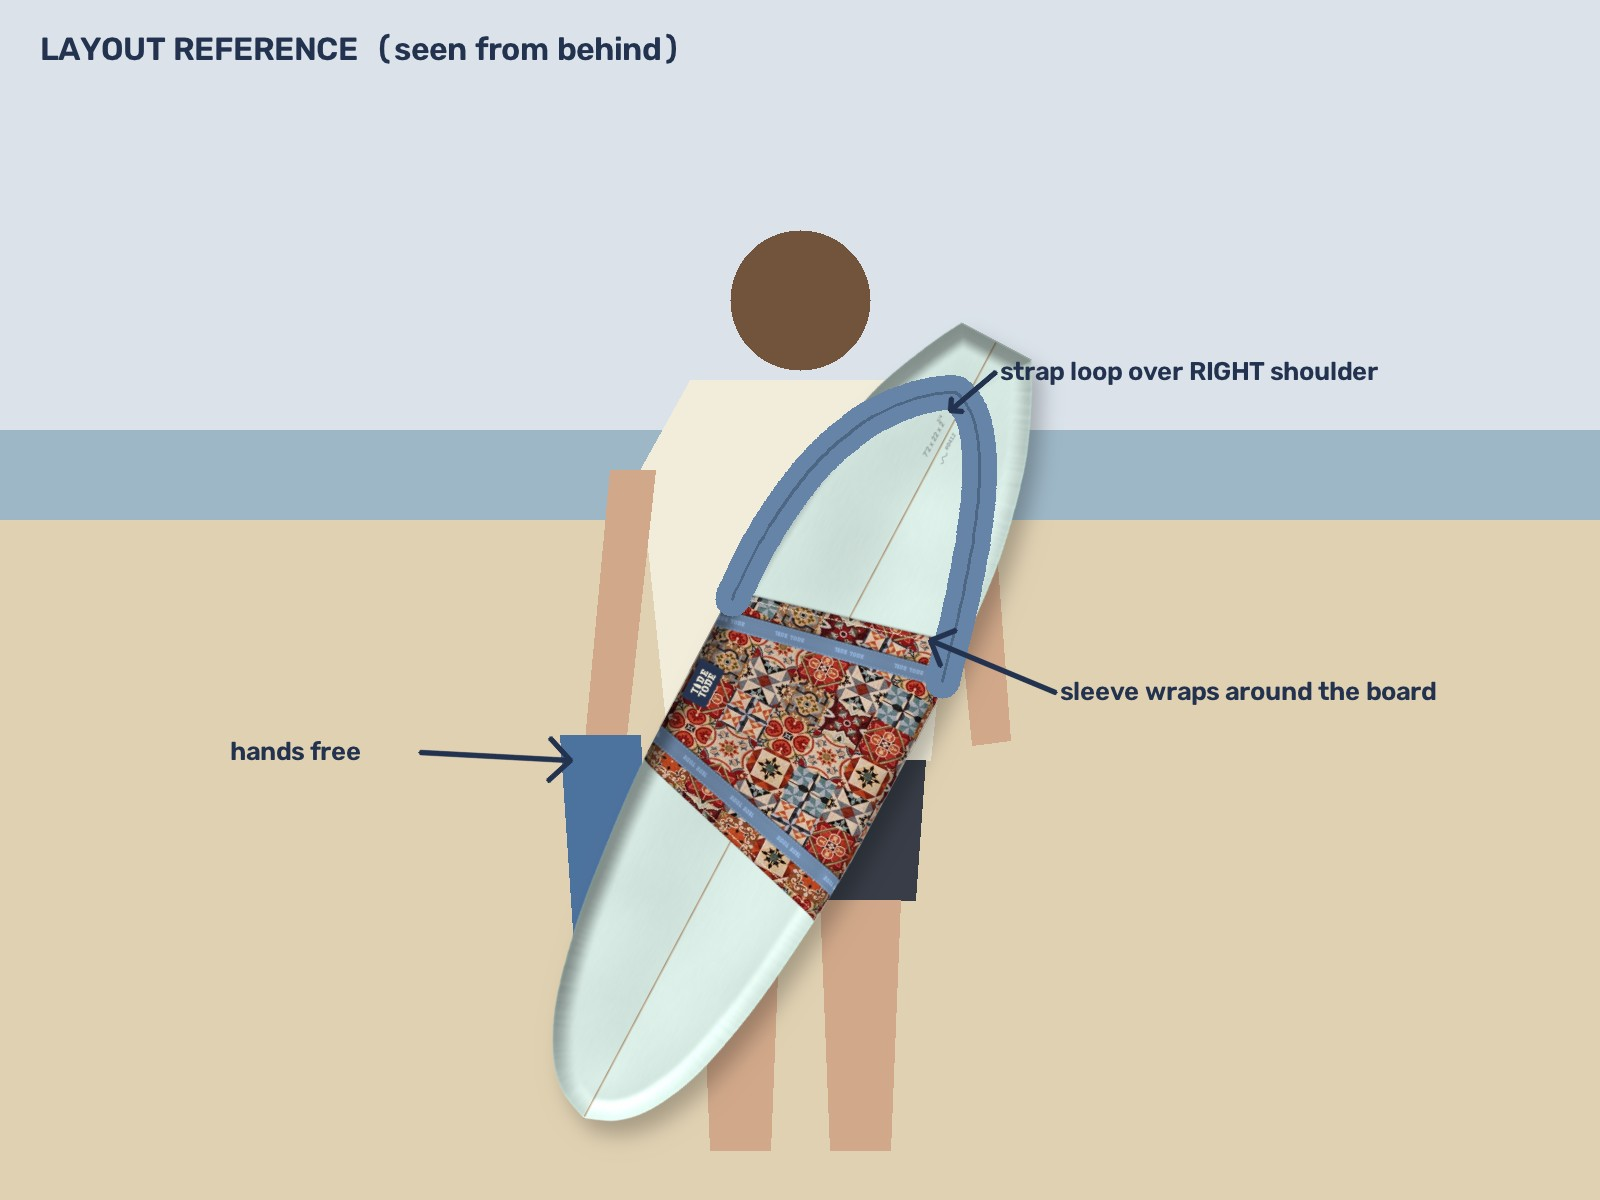
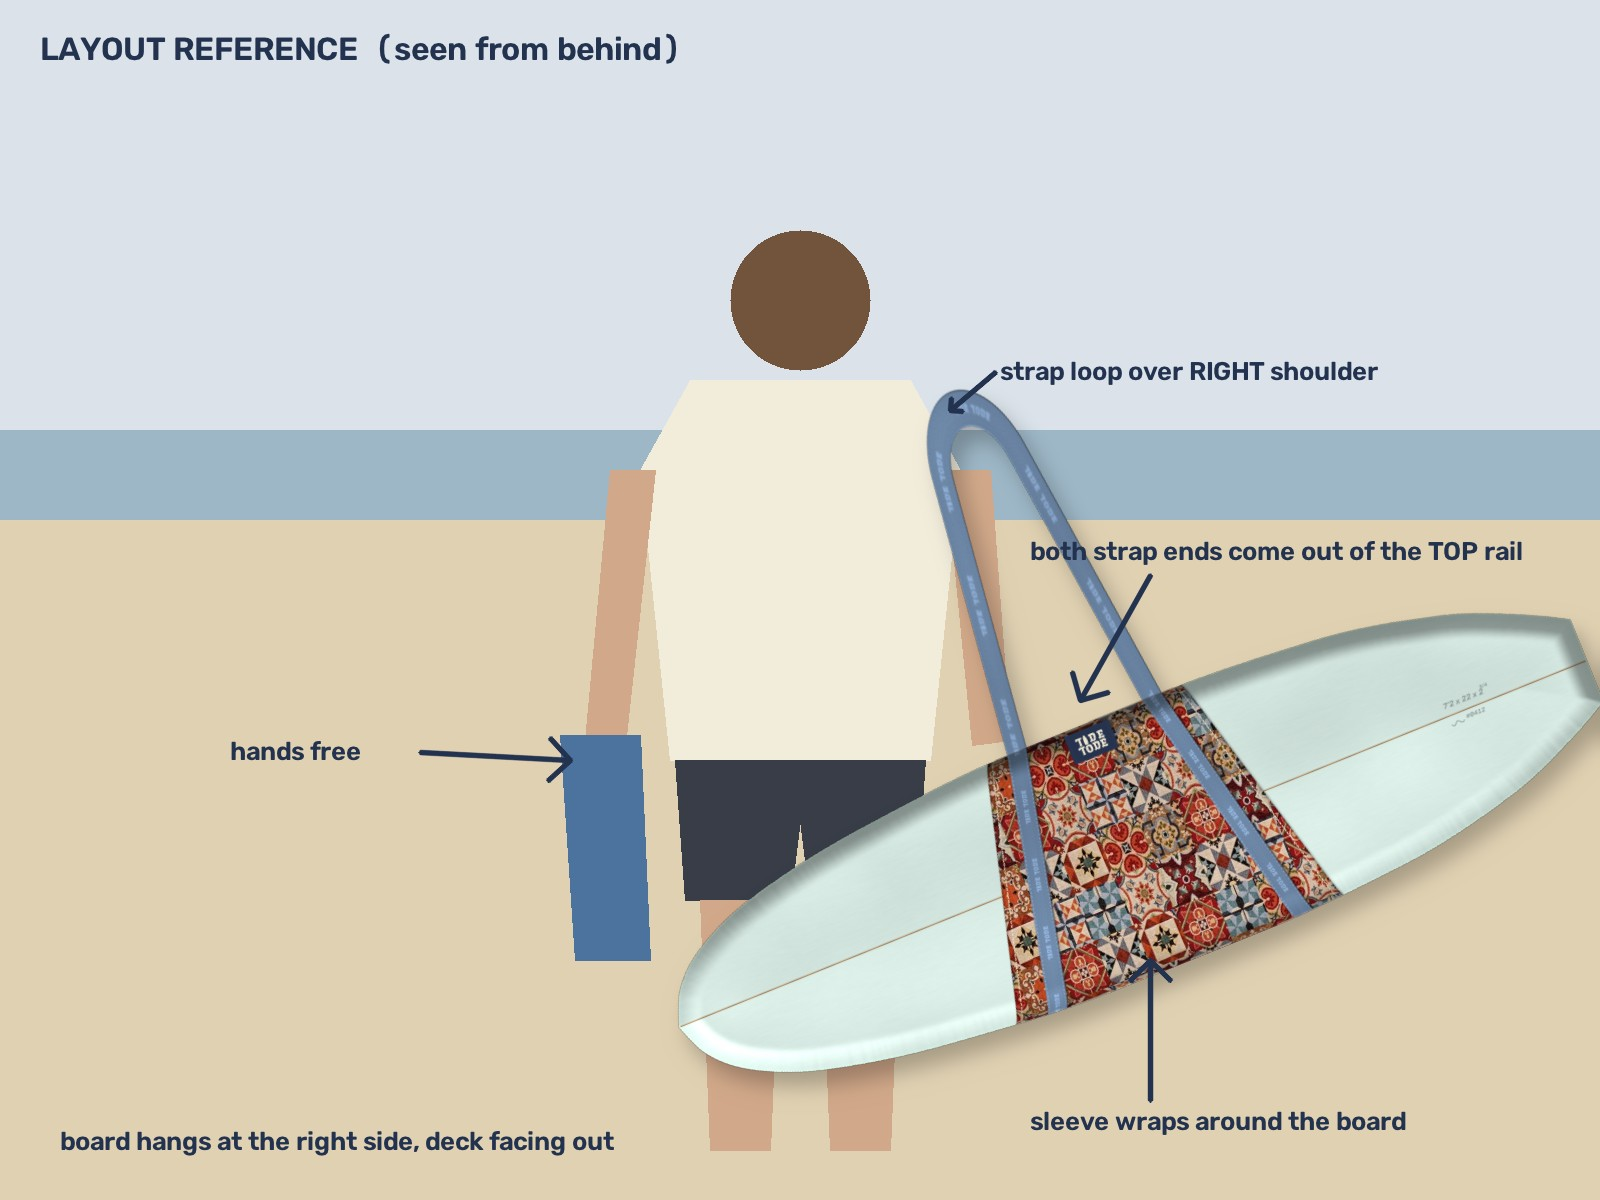
Schetsbeeld: lus uit de bovenste rail over de schouder
Claude-Session: https://claude.ai/code/session_015XUCkmjhzv6ohesKJnYCin

Changed region(s): [[0.0312, 0.2467, 1.0, 0.9558], [0.625, 0.925, 0.875, 0.9558]]

diff --git a/tools/video/referentie_schouder.py b/tools/video/referentie_schouder.py
@@ -23,40 +23,45 @@ poly([(675, 760), (925, 760), (915, 900), (810, 900), (800, 820), (790, 900), (6
 poly([(700, 900), (780, 900), (770, 1150), (710, 1150)], (0.82, 0.66, 0.54))
 poly([(820, 900), (900, 900), (890, 1150), (830, 1150)], (0.82, 0.66, 0.54))
 poly([(560, 735), (640, 735), (650, 960), (575, 960)], (0.30, 0.45, 0.62))           # handdoek
-# board met tas: echte render, staand, schuin op de rug
+# board met tas: echte render, liggend (lus komt uit de bovenste rail), lus langer zodat hij over de schouder reikt
 rb, rl = S2.bouw('draagtas-tegel')
-rb = cv2.rotate(rb, cv2.ROTATE_90_COUNTERCLOCKWISE)
-ys, xs = np.where(rb[..., 3] > .01); rb = rb[ys.min():ys.max() + 1, xs.min():xs.max() + 1]
-s = 880 / rb.shape[0]; rb = cv2.resize(rb, None, fx=s, fy=s, interpolation=cv2.INTER_AREA)
-h, w = rb.shape[:2]
-M = cv2.getRotationMatrix2D((w / 2, h / 2), -28, 1.0)
-M[0, 2] += 790 - w / 2; M[1, 2] += 730 - h / 2
-laag = cv2.warpAffine(rb, M, (W, H), flags=cv2.INTER_AREA)
+ys, xs = np.where(np.maximum(rb[..., 3], rl[..., 3]) > .01)
+rb = rb[ys.min():ys.max() + 1, xs.min():xs.max() + 1]; rl = rl[ys.min():ys.max() + 1, xs.min():xs.max() + 1]
+# board-bovenrand (eerste rij met board) en de lus erboven uitrekken
+rij_b = np.where(rb[..., 3].max(1) > .5)[0].min()
+boven = rl[:rij_b]; onder_l = rl[rij_b:]
+rek = 1.9
+boven = cv2.resize(boven, (boven.shape[1], int(boven.shape[0] * rek)), interpolation=cv2.INTER_LINEAR)
+pad_b = np.zeros((boven.shape[0] - rij_b, rb.shape[1], 4), np.float32)
+rb = np.concatenate([pad_b, rb], 0); rl = np.concatenate([boven, onder_l], 0)
+laag_rgba = rl.copy()
+a_b = rb[..., 3:4]
+laag_rgba[..., :3] = rb[..., :3] * a_b + rl[..., :3] * rl[..., 3:4] * (1 - a_b)
+laag_rgba[..., 3:4] = np.clip(a_b + rl[..., 3:4] * (1 - a_b), 0, 1)
+laag_rgba[..., :3] = laag_rgba[..., :3] / np.maximum(laag_rgba[..., 3:4], 1e-4)
+s_ = 980 / laag_rgba.shape[1]
+laag_rgba = cv2.resize(laag_rgba, None, fx=s_, fy=s_, interpolation=cv2.INTER_AREA)
+h, w = laag_rgba.shape[:2]
+# toppunt van de lus vinden en op de rechterschouder leggen; board schuin (neus rechtsboven)
+ys2, xs2 = np.where(laag_rgba[..., 3] > .5)
+top = np.array([xs2[ys2 == ys2.min()].mean(), ys2.min()])
+hoek = 22
+M = cv2.getRotationMatrix2D((float(top[0]), float(top[1])), hoek, 1.0)
+M[0, 2] += 950 - top[0]; M[1, 2] += 392 - top[1]
+laag = cv2.warpAffine(laag_rgba, M, (W, H), flags=cv2.INTER_AREA)
 a = laag[..., 3:4]
-# schaduw van het board op de rug
 sch = cv2.GaussianBlur(cv2.warpAffine(a[..., 0], np.float32([[1, 0, 10], [0, 1, 14]]), (W, H)), (0, 0), 10)[..., None]
-img = img * (1 - 0.25 * sch) ; img = img * (1 - a) + laag[..., :3] * a
-# bovenrand van het vak: zoek de band (blauwe kleur) bovenaan in de laag
-def punt(x, y):
-    p = M @ np.array([x, y, 1.0]); return int(p[0]), int(p[1])
-lx, rx = punt(w * 0.02, h * 0.40), punt(w * 0.98, h * 0.37)
-band = (0.40, 0.52, 0.66)
-# de lus: van beide railkanten omhoog over de rechterschouder
-t = np.linspace(0, 1, 60)
-schouder = np.array([955, 392])
-links = np.array(lx, float); rechts = np.array(rx, float)
-p1 = [(1 - u) ** 2 * links + 2 * (1 - u) * u * np.array([820, 400]) + u ** 2 * schouder for u in t]
-p2 = [(1 - u) ** 2 * schouder + 2 * (1 - u) * u * np.array([1010, 430]) + u ** 2 * rechts for u in t]
-pad = np.int32(p1 + p2)
-cv2.polylines(img, [pad], False, band, 34, cv2.LINE_AA)
-cv2.polylines(img, [pad], False, (0.30, 0.40, 0.52), 2, cv2.LINE_AA)
+img = img * (1 - 0.25 * sch); img = img * (1 - a) + laag[..., :3] * a
+# schouder over de lus heen tekenen: de lus ligt OP de schouder
 # pijlen en uitleg
 img = (np.clip(img, 0, 1) * 255).astype(np.uint8)
 deep = (34, 50, 79)
 def tekst(t, xy):
     cv2.putText(img, t, xy, cv2.FONT_HERSHEY_SIMPLEX, 0.9, deep, 2, cv2.LINE_AA)
 tekst('strap loop over RIGHT shoulder', (1000, 380)); cv2.arrowedLine(img, (995, 372), (950, 410), deep, 3, cv2.LINE_AA, tipLength=.2)
-tekst('sleeve wraps around the board', (1060, 700)); cv2.arrowedLine(img, (1055, 692), (930, 640), deep, 3, cv2.LINE_AA, tipLength=.2)
+tekst('both strap ends come out of the TOP rail', (1030, 560)); cv2.arrowedLine(img, (1150, 575), (1080, 700), deep, 3, cv2.LINE_AA, tipLength=.2)
+tekst('sleeve wraps around the board', (1030, 1130)); cv2.arrowedLine(img, (1150, 1100), (1150, 960), deep, 3, cv2.LINE_AA, tipLength=.2)
+tekst('board hangs at the right side, deck facing out', (60, 1150))
 tekst('hands free', (230, 760)); cv2.arrowedLine(img, (420, 752), (570, 760), deep, 3, cv2.LINE_AA, tipLength=.2)
 cv2.putText(img, 'LAYOUT REFERENCE  (seen from behind)', (40, 60), cv2.FONT_HERSHEY_SIMPLEX, 1.1, deep, 2, cv2.LINE_AA)
 uit = R / 'docs' / 'producten' / 'proef' / 'referentie-schouder.jpg'
